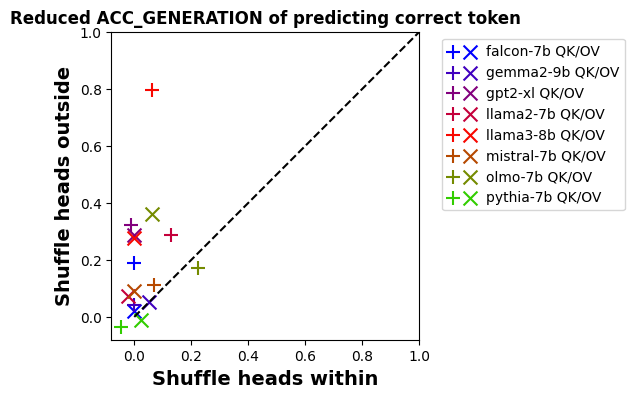
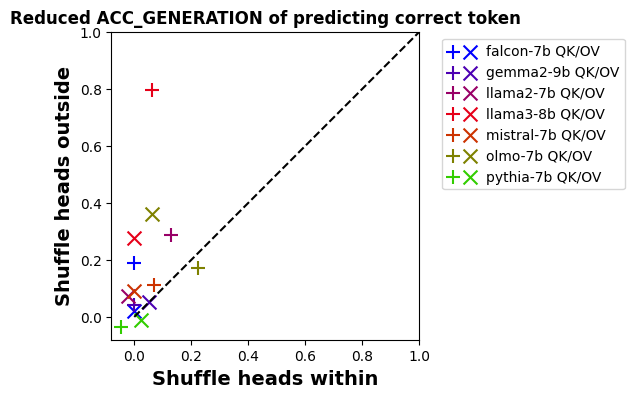
Change ignored models

diff --git a/src/tasks/icl/report.py b/src/tasks/icl/report.py
@@ -11,7 +11,7 @@ import src.api.result as result_api
 
 RESULTS_DIR = os.path.join("results")
 FIGURES_DIR = os.path.join("figures")
-IGNORE_MODELS = ["gpt2", "gemma-7b"]
+IGNORE_MODELS = ["gpt2", "gpt2-xl", "gemma-7b"]
 
 
 os.makedirs(FIGURES_DIR, exist_ok=True)
@@ -343,4 +343,9 @@ if __name__ == "__main__":
     if args.experiment == "projection":
         main_projection()
     if args.experiment == "scaling":
+        main_scaling()
+
+    if args.experiment == "all":
+        main_shuffle()
+        main_projection()
         main_scaling()
